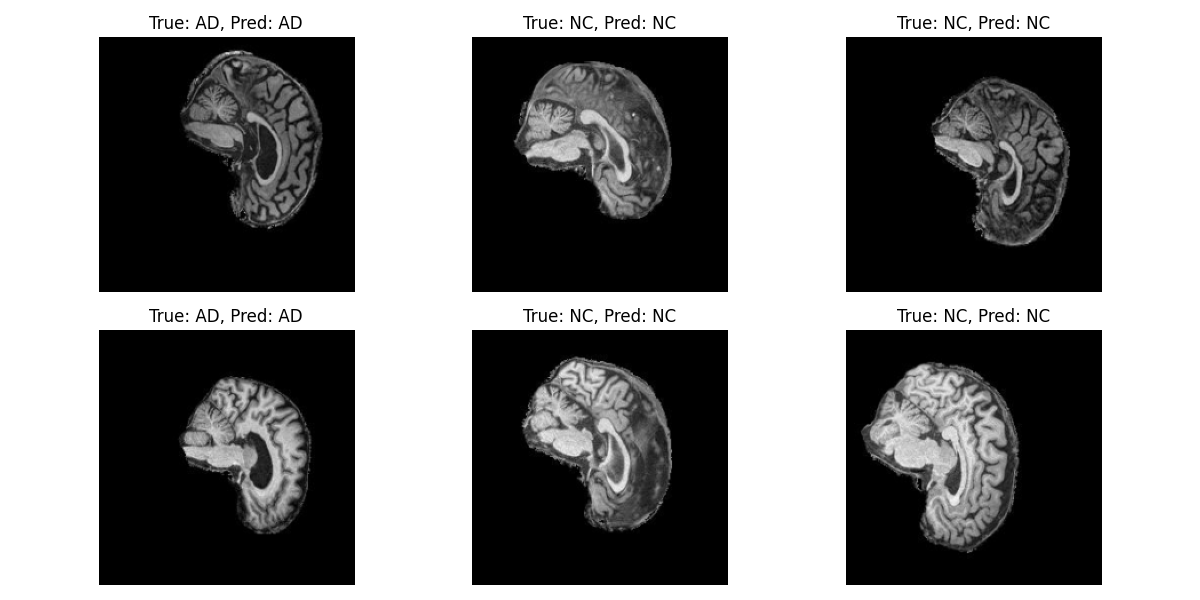
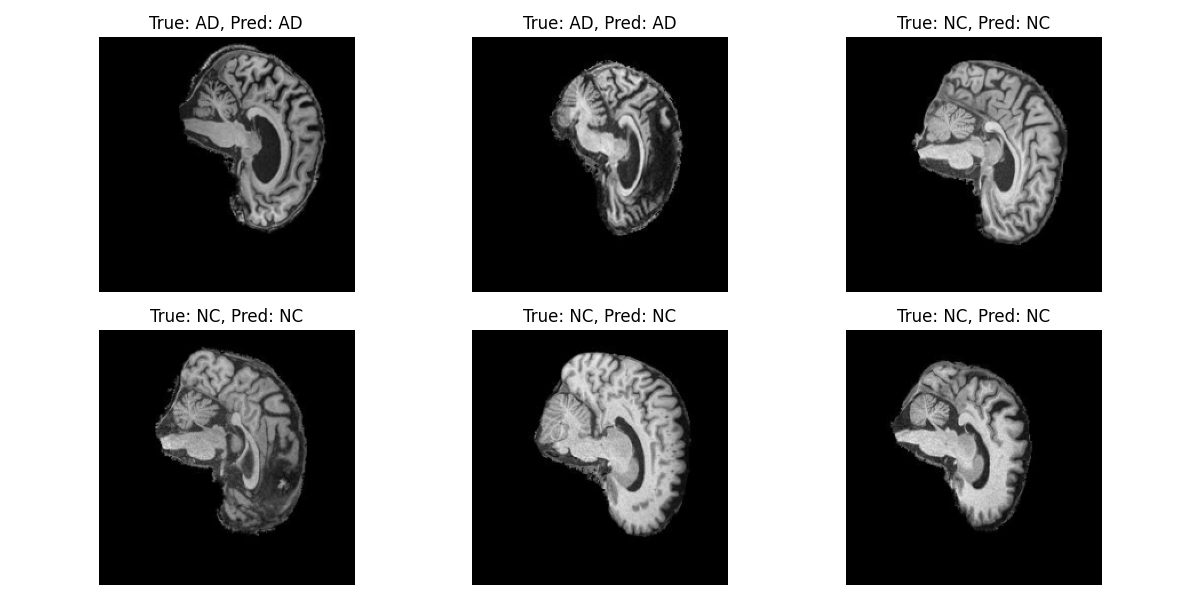
Redesigned ConvNeXt model implemented from scratch in PyTorch and updated experiment results (new training and prediction images)

diff --git a/recognition/adni_convnext_s4910188/modules.py b/recognition/adni_convnext_s4910188/modules.py
@@ -1,12 +1,77 @@
+# modules.py
 import torch
 import torch.nn as nn
-from torchvision.models import convnext_tiny
 
-class ConvNeXtAD(nn.Module):
-    def __init__(self, num_classes=2):
+class LayerNorm2d(nn.Module):
+    def __init__(self, dim, eps=1e-6):
         super().__init__()
-        self.model = convnext_tiny(weights="IMAGENET1K_V1")
-        self.model.classifier[2] = nn.Linear(768, num_classes)
+        self.norm = nn.LayerNorm(dim, eps=eps)
 
     def forward(self, x):
-        return self.model(x)
+        x = x.permute(0, 2, 3, 1)  # NCHW → NHWC
+        x = self.norm(x)
+        x = x.permute(0, 3, 1, 2)  # NHWC → NCHW
+        return x
+
+# === Basic ConvNeXt block ===
+class ConvNeXtBlock(nn.Module):
+    def __init__(self, dim, drop_path=0.):
+        super().__init__()
+        self.dwconv = nn.Conv2d(dim, dim, kernel_size=7, padding=3, groups=dim)  # depthwise conv
+        self.norm = nn.LayerNorm(dim, eps=1e-6)
+        self.pwconv1 = nn.Linear(dim, 4 * dim)
+        self.act = nn.GELU()
+        self.pwconv2 = nn.Linear(4 * dim, dim)
+        self.gamma = nn.Parameter(1e-6 * torch.ones(dim))
+
+    def forward(self, x):
+        shortcut = x
+        x = self.dwconv(x)
+        x = x.permute(0, 2, 3, 1)  # NCHW -> NHWC
+        x = self.norm(x)
+        x = self.pwconv1(x)
+        x = self.act(x)
+        x = self.pwconv2(x)
+        x = self.gamma * x
+        x = x.permute(0, 3, 1, 2)  # NHWC -> NCHW
+        x = x + shortcut
+        return x
+
+
+# === Simplified ConvNeXt Tiny ===
+class ConvNeXtTiny(nn.Module):
+    def __init__(self, in_chans=3, num_classes=2):
+        super().__init__()
+        depths = [3, 3, 9, 3]  # Tiny config
+        dims = [96, 192, 384, 768]
+
+        self.downsample_layers = nn.ModuleList()
+        stem = nn.Sequential(
+            nn.Conv2d(in_chans, dims[0], kernel_size=4, stride=4),
+            LayerNorm2d(dims[0], eps=1e-6)
+        )
+        self.downsample_layers.append(stem)
+        for i in range(3):
+            downsample = nn.Sequential(
+                LayerNorm2d(dims[i], eps=1e-6),
+                nn.Conv2d(dims[i], dims[i+1], kernel_size=2, stride=2)
+            )
+            self.downsample_layers.append(downsample)
+
+        self.stages = nn.ModuleList()
+        for i in range(4):
+            stage = nn.Sequential(*[ConvNeXtBlock(dims[i]) for _ in range(depths[i])])
+            self.stages.append(stage)
+
+        self.norm = nn.LayerNorm(dims[-1], eps=1e-6)
+        self.head = nn.Linear(dims[-1], num_classes)
+
+    def forward(self, x):
+        for down, stage in zip(self.downsample_layers, self.stages):
+            x = down(x)
+            x = stage(x)
+        x = x.mean([-2, -1])  # Global average pooling
+        x = self.norm(x)      # [B, C]
+        x = self.head(x)
+        return x
+
